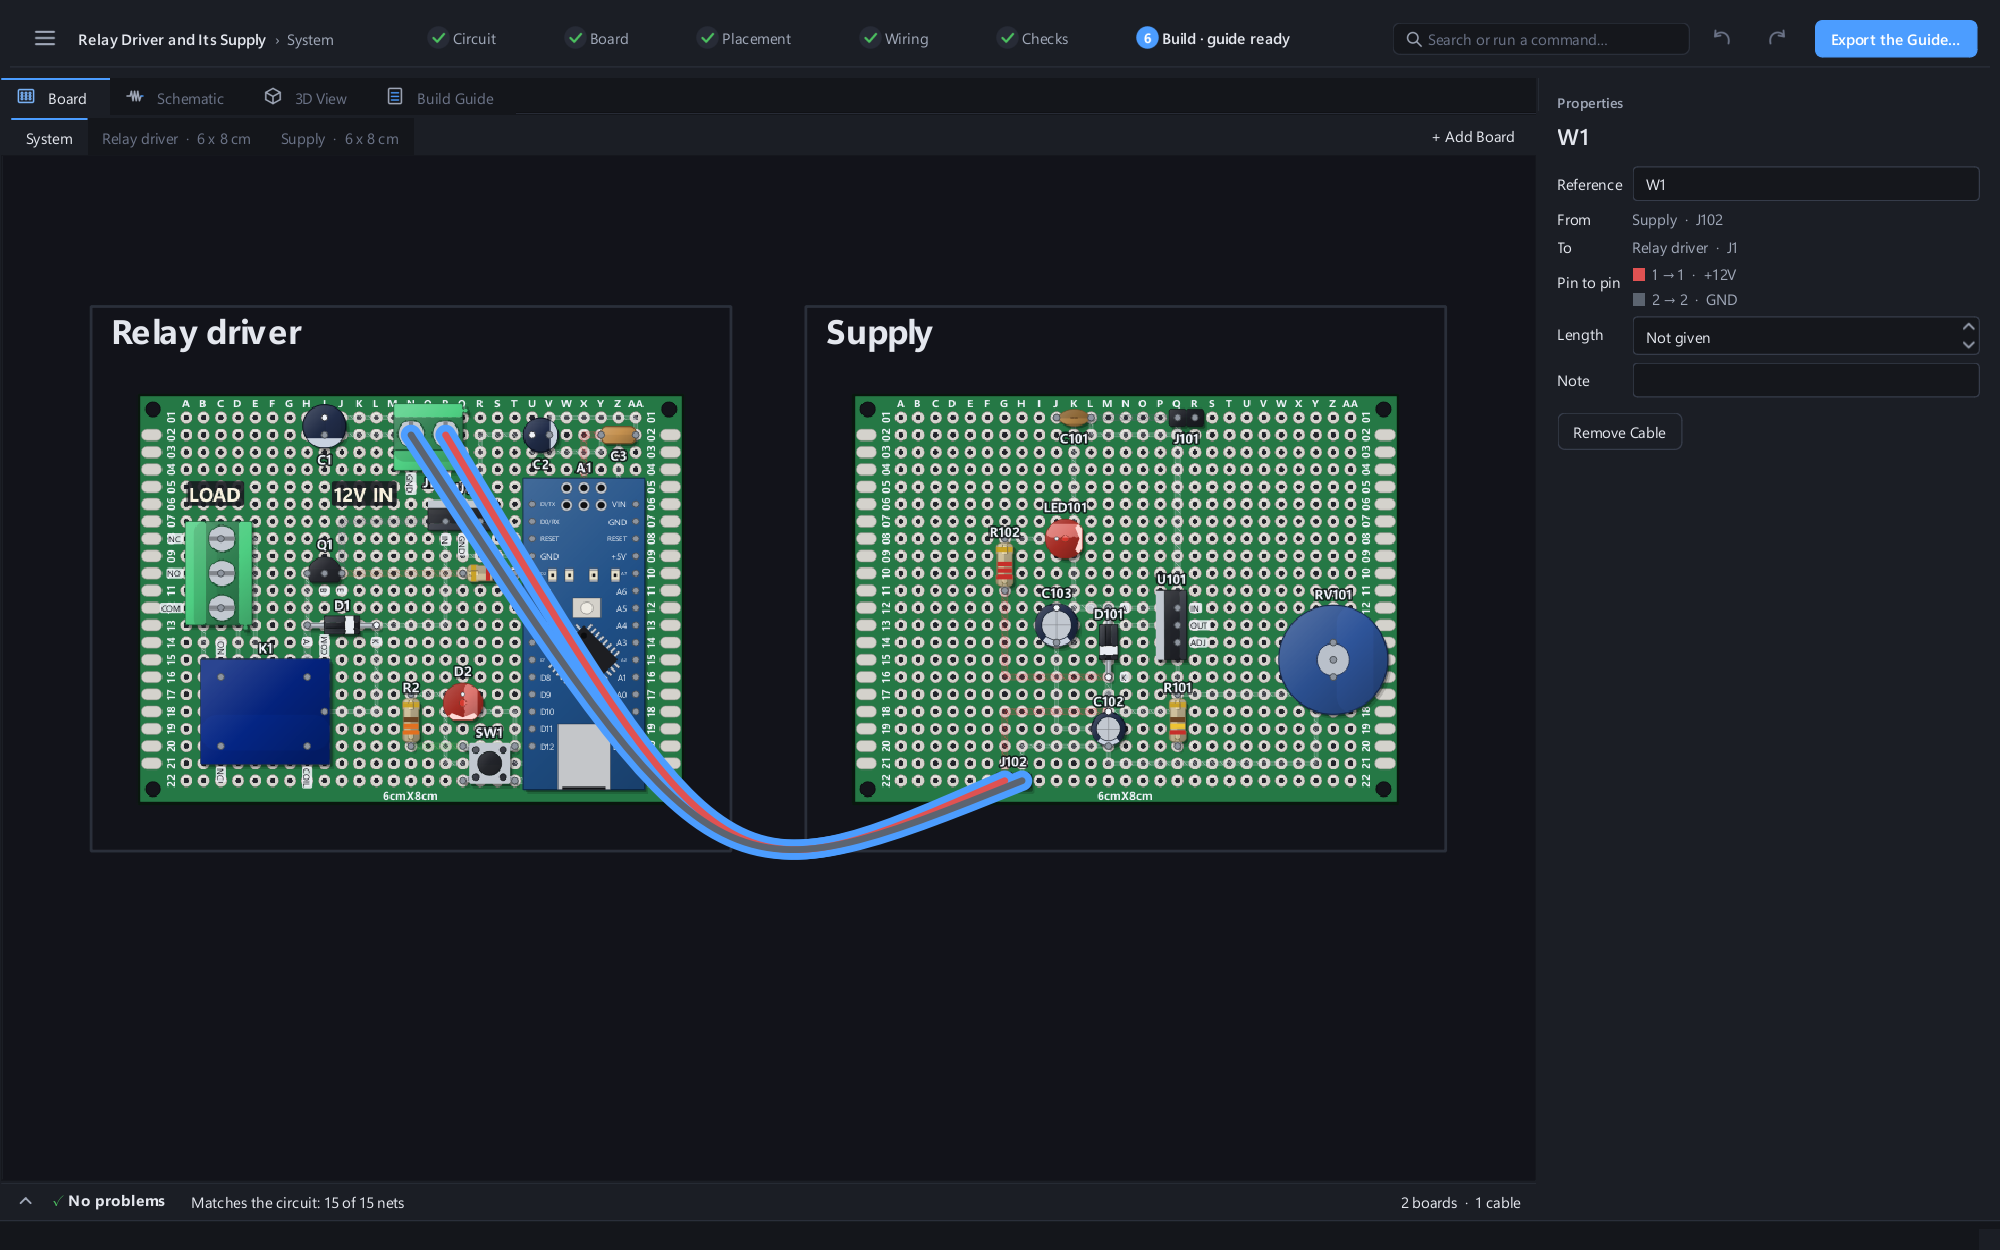
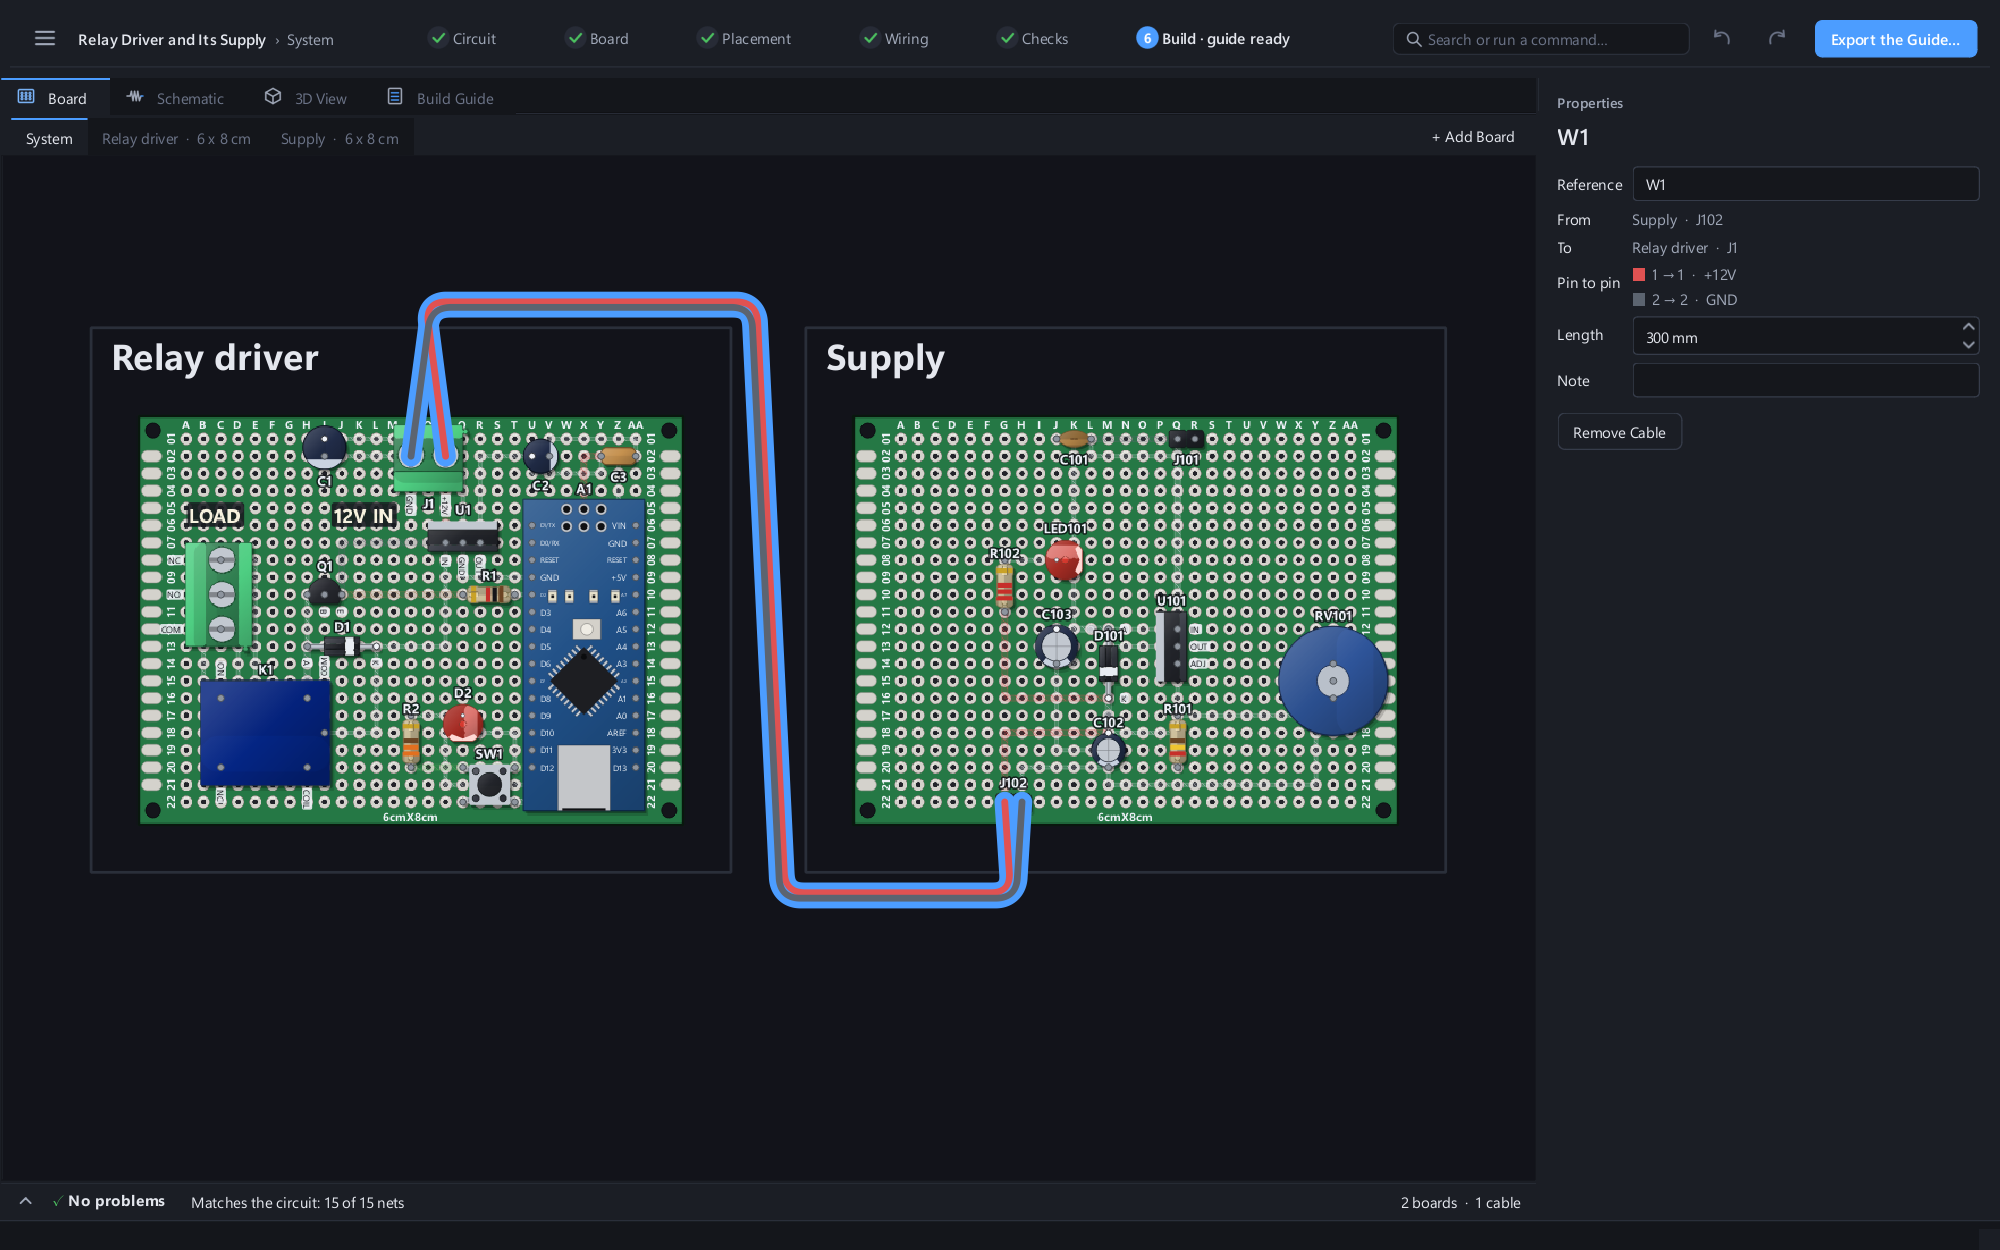
System stills: the cable runs round the boards, W1 is 300 mm; the guide says what the harness cuts

Changed region(s): [[0.031, 0.2184, 0.713, 0.7488]]

diff --git a/docs/FIRST_BOARD.md b/docs/FIRST_BOARD.md
@@ -163,7 +163,8 @@ as itself, drawn in red on System, with its swapped wires named by their colours
 
 Each board's guide measures only its own pins, and ends with the same last phase, **Harness**,
 because a cable is fitted to connectors that are already soldered. It has a step for every
-cable: the wires to cut (to the cable's length, or "cut to fit" if none was given), each wire's
+cable: the wires to cut (a little longer than the cable's length: 310 mm for W1's 300 mm, or "cut to
+fit" if no length was given), each wire's
 colour and gauge, how much to strip at both ends, which connector and pin each end goes to,
 and the checks: each wire end to end, and neighbouring wires on different nets kept apart. They
 are the last thing before the system sees power. The exported guide has the same section and
